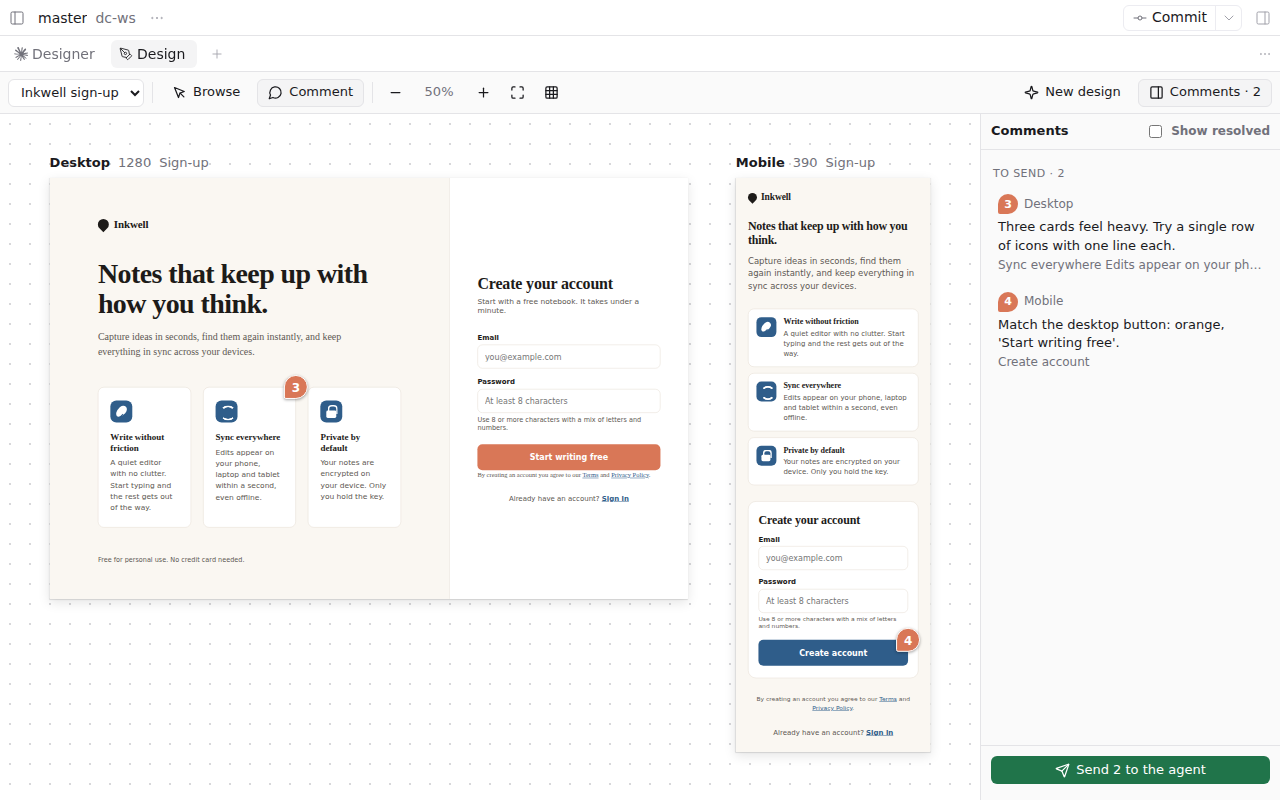
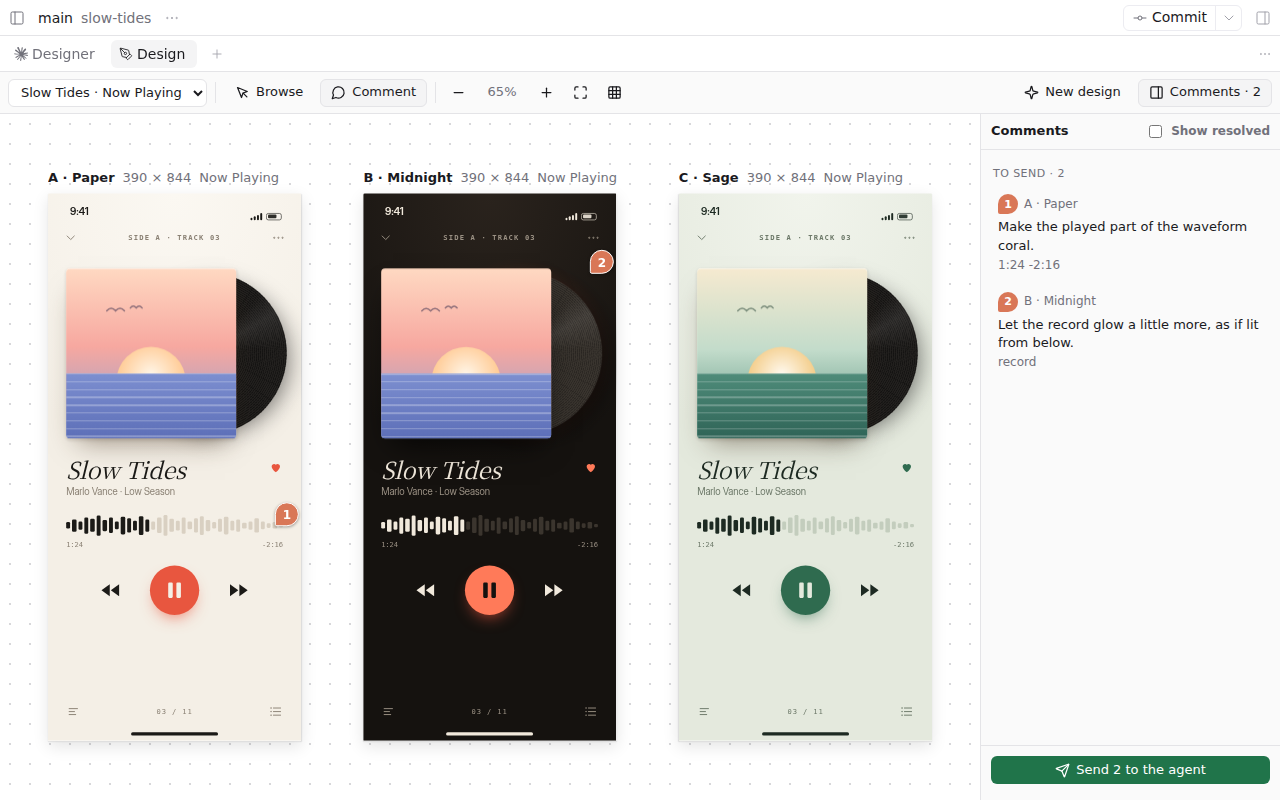
design-canvas: new store screenshots and a plainer description
The screenshots show a made-up music app in three colourways: the canvas with waiting comments, writing a comment, and the agent's revision with every comment resolved. The listing now describes the plugin on its own terms.

diff --git a/plugins/design-canvas/OVERVIEW.md b/plugins/design-canvas/OVERVIEW.md
@@ -1,4 +1,4 @@
-Design canvas brings a [Claude Design](https://www.anthropic.com/news/claude-design-anthropic-labs)-style workflow to Paseo. Your agent draws designs as HTML artboards, you look at them side by side, point at an element and say what should change, and the agent revises. The designs are files in your workspace, so the agent that drew them can build them too.
+Design canvas gives your Paseo agents a place to design. Your agent draws designs as HTML artboards, you look at them side by side, point at an element and say what should change, and the agent revises. The designs are files in your workspace, so the agent that drew them can build them too.
 
 Open the **Design** tab of an agent from the Command Center (**Open the design canvas**) or with `/canvas` in the chat. With no designs yet, describe what you want and press **Ask the agent**; `/canvas <what to design>` does the same from the chat. The agent sets the design up with its design tools and draws each artboard; the canvas shows it as it is written.
 
@@ -9,9 +9,11 @@ On the canvas:
 - **Comment** (C) highlights the element under the pointer. A click picks the nearest element the agent named, and Alt+click picks the exact one. Write what should change and press Ctrl/Cmd+Enter.
 - Comments wait as numbered pins until you press **Send to the agent**, which hands them over in one message naming each element. The agent marks each one resolved with a line on what it changed; resolved pins turn green and you can reopen them.
 
-![Two comments waiting to be sent](https://raw.githubusercontent.com/961853266hyt/paseo-plugins/main/plugins/design-canvas/assets/canvas.png)
+![Three variants of a design side by side, with two comments waiting to be sent](https://raw.githubusercontent.com/961853266hyt/paseo-plugins/main/plugins/design-canvas/assets/canvas.png)
 
 ![Writing a comment on a picked element](https://raw.githubusercontent.com/961853266hyt/paseo-plugins/main/plugins/design-canvas/assets/comment.png)
+
+![The agent's revision, with each comment resolved and its note](https://raw.githubusercontent.com/961853266hyt/paseo-plugins/main/plugins/design-canvas/assets/resolved.png)
 
 ## Requirements
 

diff --git a/plugins/design-canvas/OVERVIEW.zh-CN.md b/plugins/design-canvas/OVERVIEW.zh-CN.md
@@ -1,4 +1,4 @@
-设计画布把类似 [Claude Design](https://www.anthropic.com/news/claude-design-anthropic-labs) 的工作方式带进 Paseo：agent 用 HTML 画出设计画板，你并排查看，点中某个元素说要怎么改，agent 接着改。设计就是工作区里的文件，所以画设计的 agent 也能直接把它实现出来。
+设计画布给 Paseo 里的 agent 一块画设计的地方：agent 用 HTML 画出设计画板，你并排查看，点中某个元素说要怎么改，agent 接着改。设计就是工作区里的文件，所以画设计的 agent 也能直接把它实现出来。
 
 在命令中心选**打开设计画布**，或者在聊天里输入 `/canvas`，就能打开 agent 的**设计**标签页。还没有设计时，写下想要什么，点**交给 agent**；在聊天里输入 `/canvas <要设计什么>` 效果一样。agent 会用设计工具建好设计并逐个画出画板，画布会随着它写文件实时显示。
 
@@ -9,9 +9,11 @@
 - **评论**（C）下会高亮鼠标下的元素。单击选中 agent 命名过的最近元素，Alt+单击选中精确的元素。写下要改什么，按 Ctrl/Cmd+Enter。
 - 评论会以编号图钉的形式先攒着，点**发送给 agent** 时合成一条消息交给 agent，每条都注明对应的元素。agent 改完会把每条标为已解决，并写一句改了什么；已解决的图钉变成绿色，也可以重新打开。
 
-![两条等待发送的评论](https://raw.githubusercontent.com/961853266hyt/paseo-plugins/main/plugins/design-canvas/assets/canvas.png)
+![同一个设计的三个方案并排，两条评论等待发送](https://raw.githubusercontent.com/961853266hyt/paseo-plugins/main/plugins/design-canvas/assets/canvas.png)
 
 ![给选中的元素写评论](https://raw.githubusercontent.com/961853266hyt/paseo-plugins/main/plugins/design-canvas/assets/comment.png)
+
+![agent 改完后，每条评论都标为已解决并附上说明](https://raw.githubusercontent.com/961853266hyt/paseo-plugins/main/plugins/design-canvas/assets/resolved.png)
 
 ## 要求
 

diff --git a/plugins/design-canvas/README.md b/plugins/design-canvas/README.md
@@ -3,7 +3,7 @@ OVERVIEW.md, so change both together. -->
 
 # Design canvas for Paseo
 
-A [Paseo](https://paseo.sh) plugin that brings a Claude Design-style canvas to your agents.
+A [Paseo](https://paseo.sh) plugin that gives your agents a design canvas.
 Your agent draws designs as HTML artboards, you look at them side by side, point at an element and say what should change, and the agent revises. The designs are files in your workspace, so the agent that drew them can build them too.
 
 Open the **Design** tab of an agent from the Command Center (**Open the design canvas**) or with `/canvas` in the chat. With no designs yet, describe what you want and press **Ask the agent**; `/canvas <what to design>` does the same from the chat. The agent sets the design up with its design tools and draws each artboard; the canvas shows it as it is written.
@@ -15,9 +15,11 @@ On the canvas:
 - **Comment** (C) highlights the element under the pointer. A click picks the nearest element the agent named, and Alt+click picks the exact one. Write what should change and press Ctrl/Cmd+Enter.
 - Comments wait as numbered pins until you press **Send to the agent**, which hands them over in one message naming each element. The agent marks each one resolved with a line on what it changed; resolved pins turn green and you can reopen them.
 
-![Two comments waiting to be sent](https://raw.githubusercontent.com/961853266hyt/paseo-plugins/main/plugins/design-canvas/assets/canvas.png)
+![Three variants of a design side by side, with two comments waiting to be sent](https://raw.githubusercontent.com/961853266hyt/paseo-plugins/main/plugins/design-canvas/assets/canvas.png)
 
 ![Writing a comment on a picked element](https://raw.githubusercontent.com/961853266hyt/paseo-plugins/main/plugins/design-canvas/assets/comment.png)
+
+![The agent's revision, with each comment resolved and its note](https://raw.githubusercontent.com/961853266hyt/paseo-plugins/main/plugins/design-canvas/assets/resolved.png)
 
 ## Install
 

diff --git a/README.md b/README.md
@@ -8,7 +8,7 @@ with its own manifest, README, overview, changelog and license.
 | [Prompt suggestions](plugins/prompt-suggestions) | Predicts your next prompt after each agent turn. Tab accepts it on web and desktop; phones get a tap-to-send card. Needs the Claude Code CLI on the daemon host. |
 | [Better btw](plugins/better-btw) | Claude Code's `/btw`: ask about an agent's conversation without interrupting it; the answer never enters its history. Needs the Claude Code CLI on the daemon host. |
 | [Image markup](plugins/image-markup) | Annotate a chat image with pen, arrows, boxes, text, blur and crop, then add it to your message. Web and desktop app. |
-| [Design canvas](plugins/design-canvas) | A Claude Design-style canvas: agents draw HTML designs, you comment on elements, and the agent revises. Web and desktop app, Paseo 0.14 or later. |
+| [Design canvas](plugins/design-canvas) | A design canvas for agents: they draw HTML designs, you comment on elements, and the agent revises. Web and desktop app, Paseo 0.14 or later. |
 
 ## Install
 
